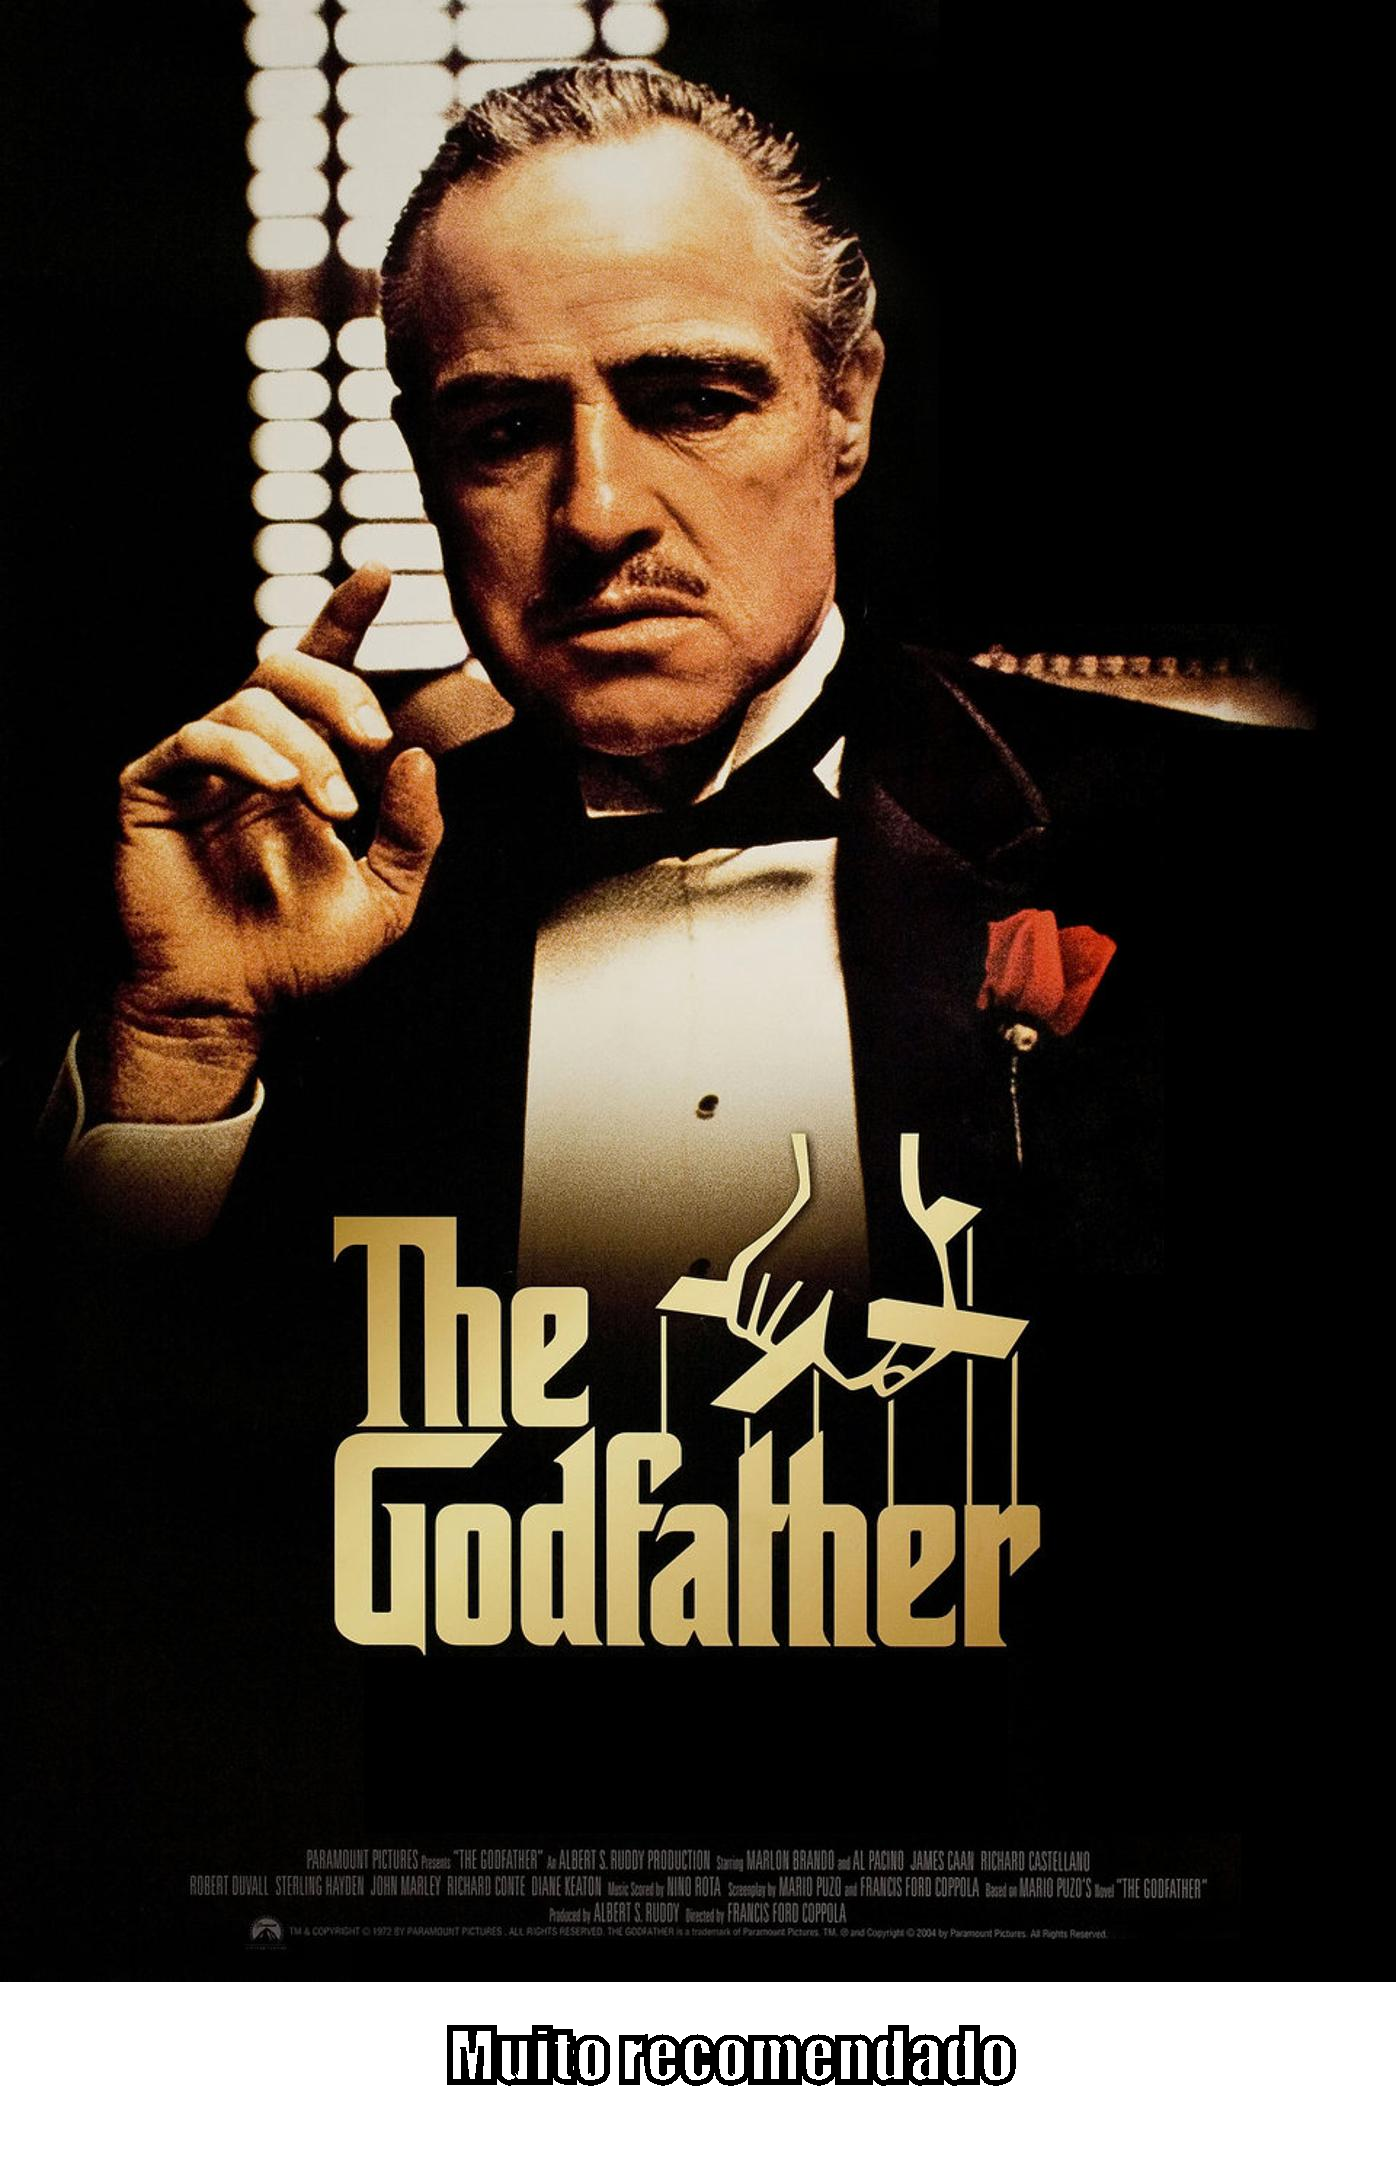
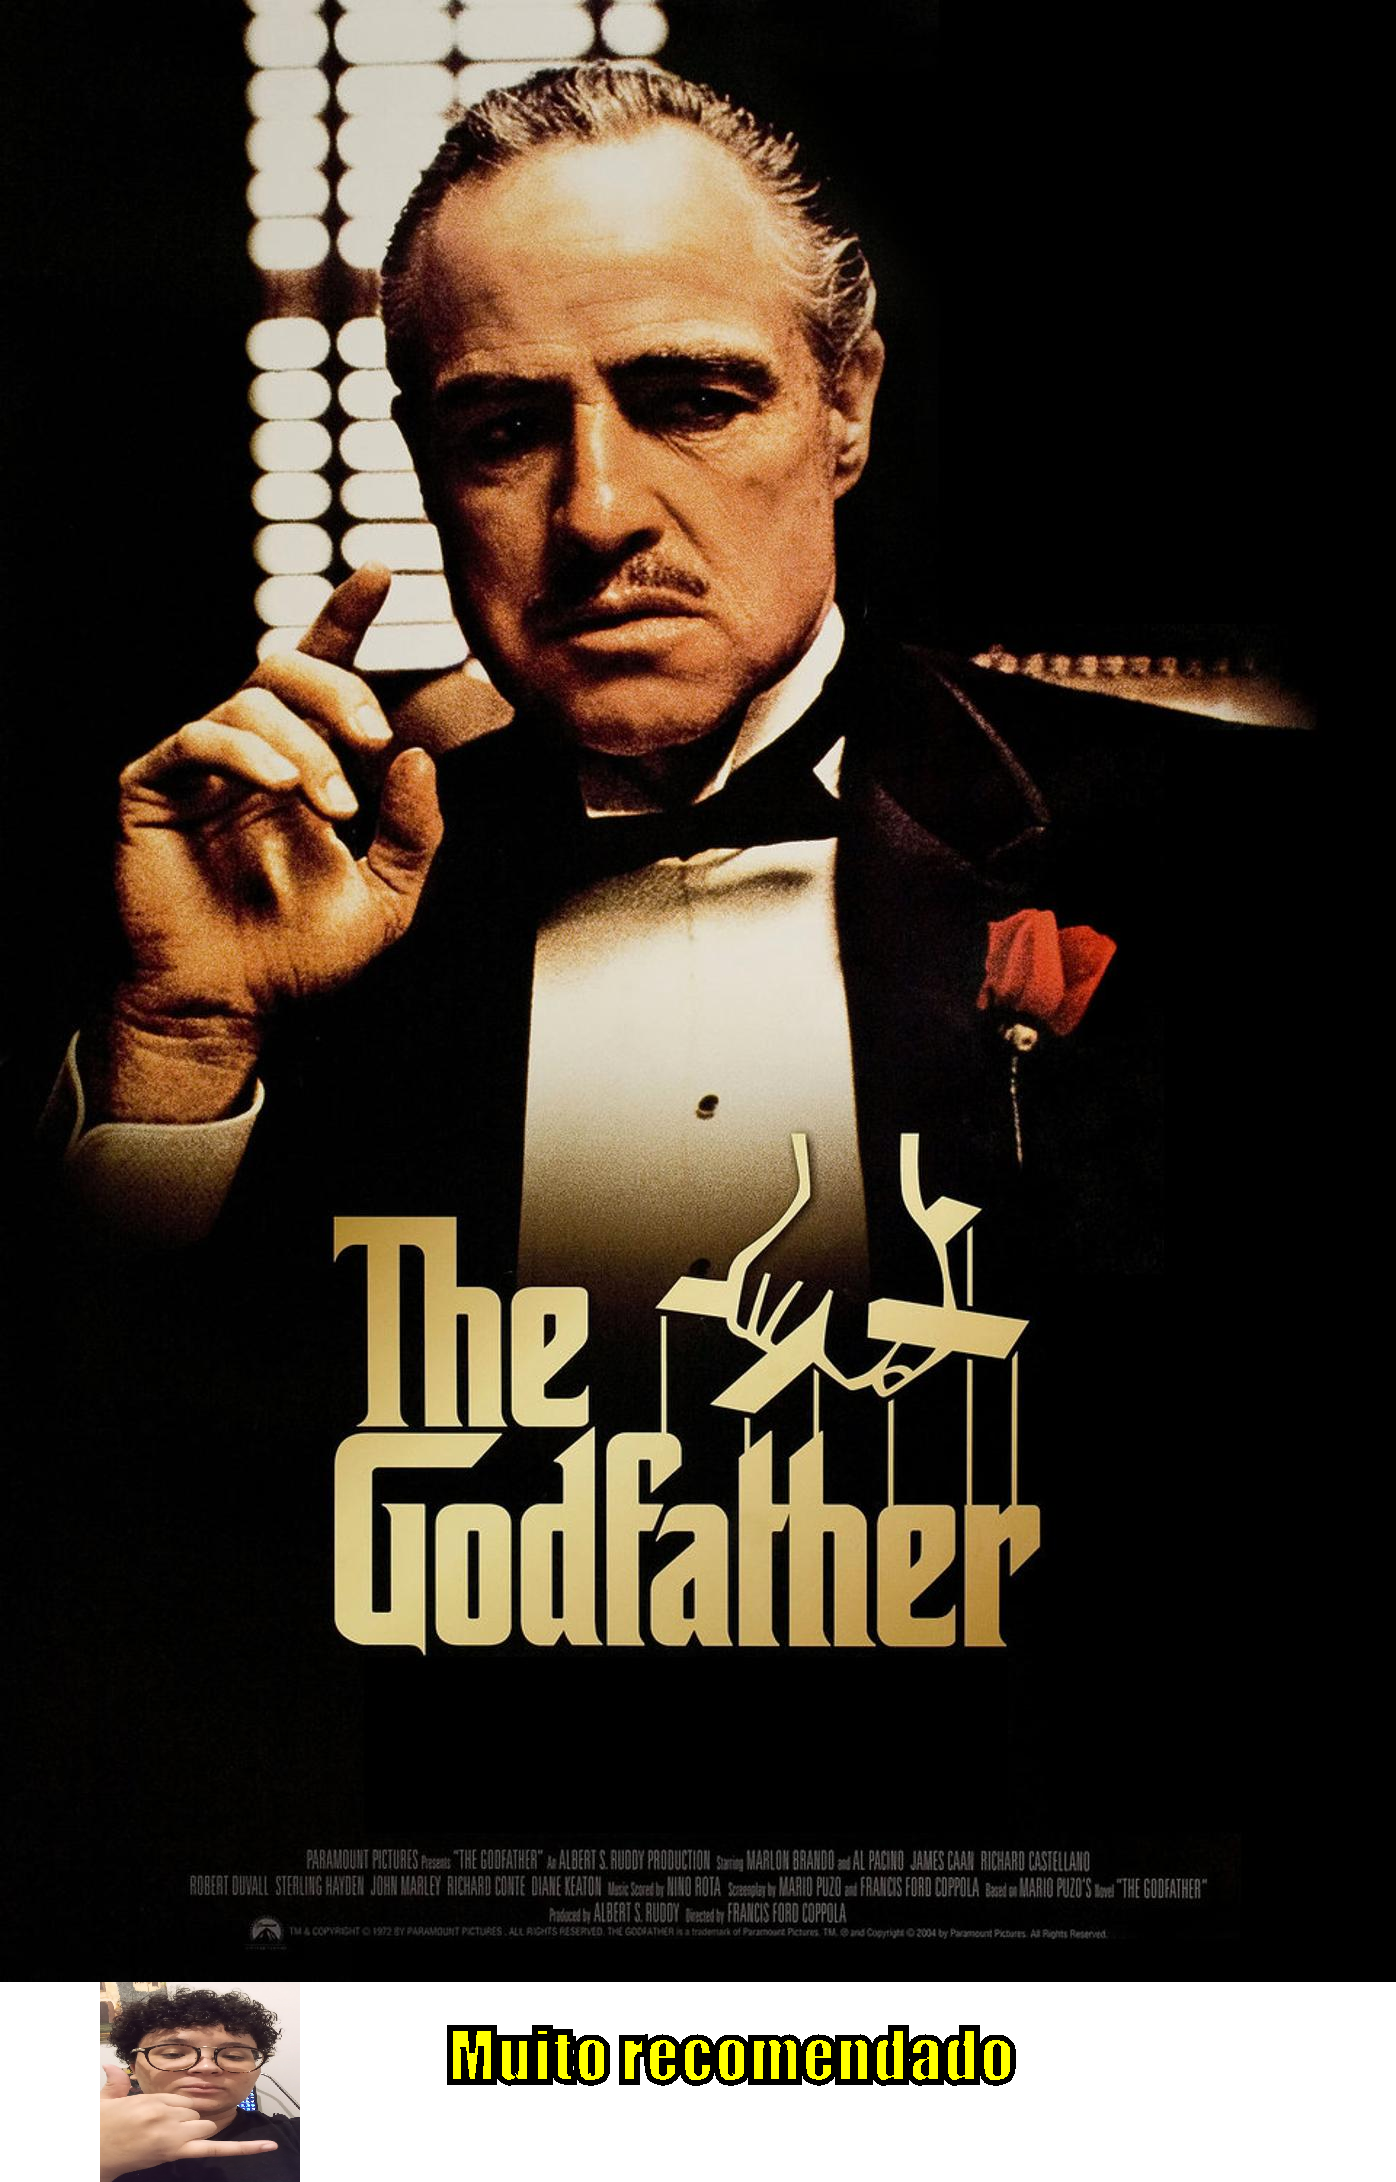
Envio 06

Changed region(s): [[0.0616, 0.9038, 0.2156, 1.0], [0.308, 0.9349, 0.7393, 0.9661]]

diff --git a/src/App.java b/src/App.java
@@ -1,3 +1,5 @@
+import java.io.File;
+import java.io.FileInputStream;
 import java.io.InputStream;
 import java.net.URI;
 import java.net.URL;
@@ -39,19 +41,28 @@ public class App {
                 String rodape = new String();
                 
                 InputStream inputStream = new URL(urlImagem).openStream();
-                String nomeArquivo = titulo + ".png";
+                InputStream icone = null;
 
                 if (estrela <= 6 ){
                     rodape = "Não recomendado";
-                }
-                if (estrela == 5 && estrela <= 7){
-                    rodape = "Recomendado";
-                }
-                if (estrela >= 8){
-                    rodape = "Muito recomendado";
+                    icone = new FileInputStream(new File("./icon/eu.jpg") );
                 }
 
-                geradora.cria(inputStream, nomeArquivo, rodape);
+                if (estrela == 5 && estrela <= 7){
+                    rodape = "Recomendado";
+                    icone = new FileInputStream(new File("./icon/eu-joinha.jpg") );
+                }
+                
+                if (estrela >= 8){
+                    rodape = "Muito recomendado";
+                    icone = new FileInputStream(new File("./icon/eu-joinha.jpg") );
+                }
+
+                String nomeArquivo = titulo.replace(":", "-") + ".png";
+
+                //icone = new FileInputStream(new File("./icon/eu.jpg") );
+                
+                geradora.cria(inputStream, nomeArquivo, rodape, icone);
 
                /* for (int i=1 ; i < estrela; i++ ){
                     System.out.print(" ⭐");

diff --git a/src/FabricaDeFigurinhas.java b/src/FabricaDeFigurinhas.java
@@ -13,7 +13,7 @@ import javax.imageio.ImageIO;
 
 
 public class FabricaDeFigurinhas {
-    public void cria(InputStream inputStream, String nomeArquivo, String comentario) throws Exception {
+    public void cria(InputStream inputStream, String nomeArquivo, String comentario, InputStream icones) throws Exception {
         //leitura da imagem
 
        // BufferedImage imagemOriginal = ImageIO.read(new File("consumindoAPI/entrada/filme.jpg"));
@@ -41,12 +41,20 @@ public class FabricaDeFigurinhas {
         graphics.setColor(Color.YELLOW);
         graphics.setFont(fonte);
 
-        
+        // ICONE 
+        BufferedImage iconeAndy = ImageIO.read(icones);
+        int iconeY = altura;//altura - iconeAndy.getHeight();
+        graphics.drawImage(iconeAndy, 100, iconeY, 200, 200, null);
+
+
         //variaveis de calculo para localização da frase
-        
         int textoLegenda = comentario.length();
         int posicaoTextoX = largura/3-textoLegenda;
         int posicaoTextoY = novaAltura - 100;
+
+        //posição do texto
+        
+        graphics.drawString(comentario, posicaoTextoX, posicaoTextoY);
 
         //contornando o texto
         FontRenderContext fontRenderContext = graphics.getFontRenderContext();
@@ -65,9 +73,7 @@ public class FabricaDeFigurinhas {
         graphics.setClip(outline);
 
 
-        //posição do texto
         
-        graphics.drawString(comentario, posicaoTextoX, posicaoTextoY);
 
         //escrever imagem nova em arquivo
 
